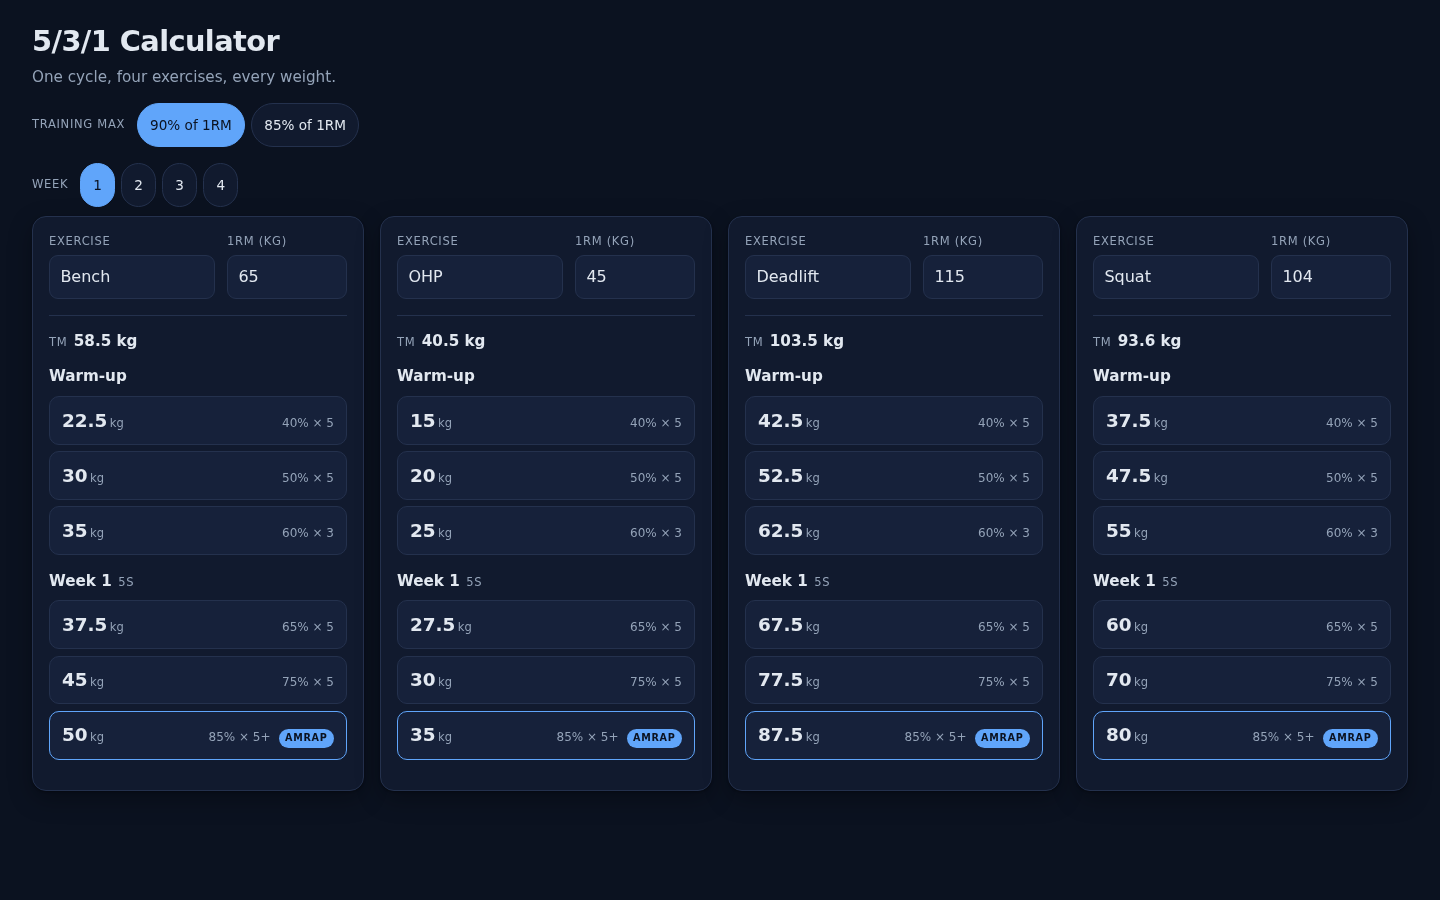
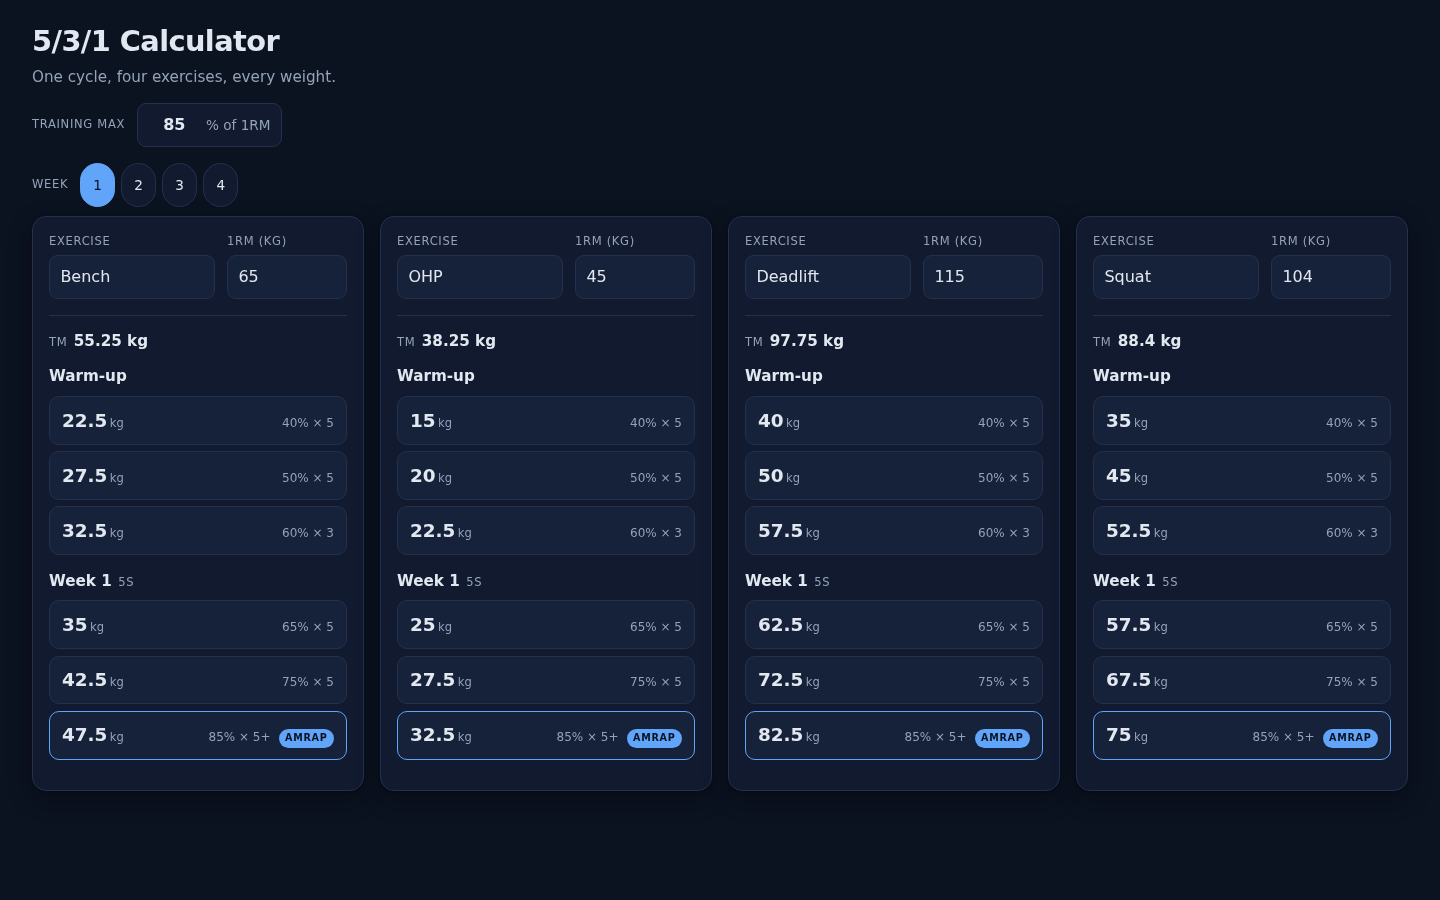
Replace Training Max presets with editable percentage input
- Validate and persist values from 1% to 100%
- Update responsive styling and review screenshots

diff --git a/src/app.js b/src/app.js
@@ -2,7 +2,9 @@ import { buildCycle } from "./calc.js";
 
 const DEFAULT_LABELS = ["Bench", "OHP", "Deadlift", "Squat"];
 const DEFAULT_ONE_REP_MAXES = ["65", "45", "115", "104"];
-const DEFAULT_TM_PERCENT = 90;
+const DEFAULT_TM_PERCENT = 85;
+const TM_MIN = 1;
+const TM_MAX = 100;
 const DEFAULT_WEEK = 1;
 const WEEK_MIN = 1;
 const WEEK_MAX = 4;
@@ -37,7 +39,12 @@ function save(key, value) {
 const labels = load(STORAGE.labels, DEFAULT_LABELS);
 const oneRepMaxes = load(STORAGE.oneRepMaxes, DEFAULT_ONE_REP_MAXES);
 let tmPercent = load(STORAGE.tmPercent, DEFAULT_TM_PERCENT);
-if (typeof tmPercent !== "number" || !(tmPercent > 0)) {
+if (
+  typeof tmPercent !== "number" ||
+  !Number.isFinite(tmPercent) ||
+  tmPercent < TM_MIN ||
+  tmPercent > TM_MAX
+) {
   tmPercent = DEFAULT_TM_PERCENT;
 }
 
@@ -158,25 +165,16 @@ for (let index = 0; index < DEFAULT_LABELS.length; index += 1) {
   container.append(buildCard(index));
 }
 
-const percentInputs = [
-  ...document.querySelectorAll('input[name="tm-percent"]'),
-];
+const percentInput = document.querySelector(".tm-percent");
+percentInput.value = String(tmPercent);
 
-function syncPercentInputs() {
-  for (const input of percentInputs) {
-    input.checked = Number(input.value) === tmPercent;
-  }
-}
-
-for (const input of percentInputs) {
-  input.addEventListener("change", () => {
-    if (!input.checked) return;
-    tmPercent = Number(input.value);
-    save(STORAGE.tmPercent, tmPercent);
-    refreshers.forEach((refresh) => refresh());
-  });
-}
-syncPercentInputs();
+percentInput.addEventListener("input", () => {
+  const value = Number(percentInput.value);
+  if (!Number.isFinite(value) || value < TM_MIN || value > TM_MAX) return;
+  tmPercent = value;
+  save(STORAGE.tmPercent, tmPercent);
+  refreshers.forEach((refresh) => refresh());
+});
 
 const weekInputs = [...document.querySelectorAll('input[name="week"]')];
 

diff --git a/index.html b/index.html
@@ -29,15 +29,22 @@
       <p class="tagline">One cycle, four exercises, every weight.</p>
     </header>
 
-    <div class="settings" role="radiogroup" aria-label="Training Max percentage">
-      <span class="settings-label">Training Max</span>
-      <label class="segment">
-        <input type="radio" name="tm-percent" value="90" checked />
-        <span>90% of 1RM</span>
-      </label>
-      <label class="segment">
-        <input type="radio" name="tm-percent" value="85" />
-        <span>85% of 1RM</span>
+    <div class="settings">
+      <label class="settings-field" for="tm-percent">
+        <span class="settings-label">Training Max</span>
+        <span class="tm-input">
+          <input
+            id="tm-percent"
+            class="tm-percent"
+            type="number"
+            inputmode="decimal"
+            min="1"
+            max="100"
+            step="1"
+            value="85"
+          />
+          <span class="tm-input-suffix">% of 1RM</span>
+        </span>
       </label>
     </div>
 

diff --git a/src/style.css b/src/style.css
@@ -86,6 +86,50 @@ body {
   margin-right: 0.35rem;
 }
 
+.settings-field {
+  display: flex;
+  align-items: center;
+  gap: 0.4rem;
+}
+
+.tm-input {
+  display: inline-flex;
+  align-items: center;
+  gap: 0.35rem;
+  min-height: 44px;
+  padding: 0 0.65rem;
+  border: 1px solid var(--border);
+  background: var(--surface);
+  border-radius: 9px;
+}
+
+.tm-input:focus-within {
+  outline: 2px solid var(--accent);
+  outline-offset: 1px;
+  border-color: var(--accent);
+}
+
+.tm-percent {
+  width: 3.25rem;
+  padding: 0.4rem 0;
+  border: 0;
+  background: transparent;
+  color: var(--text);
+  font: inherit;
+  font-weight: 600;
+  text-align: right;
+  font-variant-numeric: tabular-nums;
+}
+
+.tm-percent:focus {
+  outline: none;
+}
+
+.tm-input-suffix {
+  font-size: 0.85rem;
+  color: var(--muted-strong);
+}
+
 .segment {
   position: relative;
   display: inline-flex;
